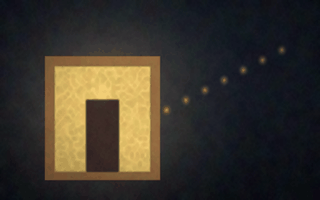
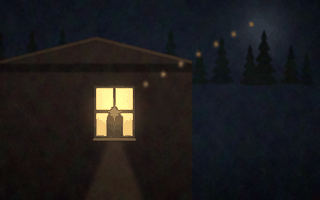
Art draft 2b: the song window belongs to a house now
Grounding sweep across the remaining scenes after the waterline
catches.

SALMONBERRY SONG was the broken one - a lit window floating in
void. Rebuilt from the yard at night: the house's dark gable mass
against a spruce line, the ONE window framed and mullioned, the
grandmother's head-and-shoulders silhouette low in the pane, warm
light spilling over the sill onto the grass in a soft pool, and
the melody rising past the eave into the dark. It is now the
strongest scene in the set - light belonging to a building is the
whole difference.

THE WATERSHED's tide gate stopped floating: mud berms first, post
feet entering the water with lap lines, the cap beam and the
half-lifted leaf, a widened channel mouth meeting the structure,
and the impounded reach beyond it - a tide gate holds water on
both sides, and without the far water it read as beached
furniture. Still the set's weakest scene; first in line for an
AI-painted source.

The store interior verified shipping-quality on review (shelf
goods, lamp pools, mullioned window, counter) - no changes.

Claude-Session: https://claude.ai/code/session_01R3bSM67DFWoUu4UxFBU7g1

diff --git a/godot/tools/art/scene_painter.py b/godot/tools/art/scene_painter.py
@@ -323,21 +323,43 @@ def salmonberry_title(H, W):
 
 
 def salmonberry_song(H, W):
-    arr = sky(H, W, [(0.0, C["night"]), (1.0, (16, 20, 28))])
-    # warm room glow
-    glow(arr, W * 0.32, H * 0.55, W * 0.5, C["lamp"], 0.45)
-    # the window frame + warm pane
-    fill_poly(arr, [(W * 0.14, H * 0.28), (W * 0.5, H * 0.28), (W * 0.5, H * 0.9), (W * 0.14, H * 0.9)], C["wood"], blur=1)
-    fill_poly(arr, [(W * 0.17, H * 0.33), (W * 0.47, H * 0.33), (W * 0.47, H * 0.86), (W * 0.17, H * 0.86)], C["window"], blur=2)
-    tex(arr, _mask(H, W, [(W * 0.17, H * 0.33), (W * 0.47, H * 0.33), (W * 0.47, H * 0.86), (W * 0.17, H * 0.86)]), 24, seed=5, scale=8)
-    # the grandmother, a soft silhouette at the window
-    fill_poly(arr, [(W * 0.27, H * 0.5), (W * 0.37, H * 0.5), (W * 0.37, H * 0.86), (W * 0.27, H * 0.86)], (60, 44, 40), blur=2)
-    glow(arr, W * 0.32, H * 0.47, W * 0.05, (40, 30, 28), 0.9)
-    # the melody, notes rising out into the dark
-    rng = np.random.default_rng(2)
+    """Night, from the yard: the dark gable of the house against
+    the spruce line, ONE lit window with the grandmother's head-
+    and-shoulders silhouette in it, warm light spilling onto the
+    sill and the grass below, the melody rising into the dark.
+    (Draft 1 rendered the window floating in void with no house —
+    the light must belong to a building.)"""
+    arr = sky(H, W, [(0.0, C["night"]), (0.7, (20, 26, 36)), (1.0, (14, 18, 26))])
+    glow(arr, W * 0.82, H * 0.14, W * 0.18, (180, 190, 210), 0.25)   # moon haze
+    # spruce line behind the roof
+    sprucerow(arr, 0, W, int(H * 0.42), (16, 22, 20), seed=13, blur=1.5)
+    # the house: gable mass filling the left, roofline against night
+    grad_poly(arr, [(0, H), (0, H * 0.30), (W * 0.30, H * 0.18), (W * 0.60, H * 0.30), (W * 0.60, H)],
+              (44, 34, 30), (26, 20, 18), blur=0.8)
+    fill_poly(arr, [(0, H * 0.305), (W * 0.30, H * 0.185), (W * 0.60, H * 0.305), (W * 0.60, H * 0.32), (W * 0.30, H * 0.20), (0, H * 0.32)], (60, 48, 40), blur=0.8)
+    # eave shadow under the roofline
+    fill_poly(arr, [(0, H * 0.32), (W * 0.60, H * 0.32), (W * 0.60, H * 0.36), (0, H * 0.36)], (14, 12, 12), blur=2, opacity=0.6)
+    # THE WINDOW · framed, mullioned, warm
+    wx0, wy0, ww2, wh2 = W * 0.30, H * 0.44, W * 0.115, H * 0.24
+    fill_poly(arr, [(wx0 - 6, wy0 - 6), (wx0 + ww2 + 6, wy0 - 6), (wx0 + ww2 + 6, wy0 + wh2 + 6), (wx0 - 6, wy0 + wh2 + 6)], (66, 52, 40), blur=0.5)
+    grad_poly(arr, [(wx0, wy0), (wx0 + ww2, wy0), (wx0 + ww2, wy0 + wh2), (wx0, wy0 + wh2)], (255, 224, 150), (216, 168, 96), blur=0.6)
+    # the grandmother: head + shoulders, low in the pane
+    fill_poly(arr, [(wx0 + ww2 * 0.30, wy0 + wh2), (wx0 + ww2 * 0.30, wy0 + wh2 * 0.62),
+                    (wx0 + ww2 * 0.38, wy0 + wh2 * 0.50), (wx0 + ww2 * 0.44, wy0 + wh2 * 0.40),
+                    (wx0 + ww2 * 0.56, wy0 + wh2 * 0.40), (wx0 + ww2 * 0.62, wy0 + wh2 * 0.50),
+                    (wx0 + ww2 * 0.72, wy0 + wh2 * 0.62), (wx0 + ww2 * 0.72, wy0 + wh2)],
+              (56, 40, 34), blur=1.0)
+    # mullion cross OVER pane + figure
+    fill_poly(arr, [(wx0 + ww2 * 0.48, wy0), (wx0 + ww2 * 0.52, wy0), (wx0 + ww2 * 0.52, wy0 + wh2), (wx0 + ww2 * 0.48, wy0 + wh2)], (66, 52, 40), blur=0.3)
+    fill_poly(arr, [(wx0, wy0 + wh2 * 0.46), (wx0 + ww2, wy0 + wh2 * 0.46), (wx0 + ww2, wy0 + wh2 * 0.52), (wx0, wy0 + wh2 * 0.52)], (66, 52, 40), blur=0.3)
+    # light spill: sill ledge, then a soft pool on the grass
+    fill_poly(arr, [(wx0 - 8, wy0 + wh2 + 6), (wx0 + ww2 + 8, wy0 + wh2 + 6), (wx0 + ww2 + 10, wy0 + wh2 + 12), (wx0 - 10, wy0 + wh2 + 12)], (120, 96, 64), blur=0.6)
+    glow(arr, wx0 + ww2 / 2, wy0 + wh2 / 2, W * 0.13, C["lamp"], 0.5)
+    fill_poly(arr, [(wx0 - ww2 * 0.3, H), (wx0 + ww2 * 0.35, wy0 + wh2 + 12), (wx0 + ww2 * 0.65, wy0 + wh2 + 12), (wx0 + ww2 * 1.3, H)], (96, 74, 46), blur=6, opacity=0.4)
+    # the melody, rising past the eave into the night
     for i in range(7):
-        nx = W * (0.52 + i * 0.06); ny = H * (0.55 - i * 0.05)
-        glow(arr, nx, ny, W * 0.02, C["gold"], 0.7)
+        nx = wx0 + ww2 + W * (0.04 + i * 0.055); ny = wy0 - H * (0.02 + i * 0.05)
+        glow(arr, nx, ny, W * 0.016, C["gold"], 0.75)
     vignette(arr, 0.5)
     return arr
 
@@ -619,16 +641,27 @@ def estuary4_watershed(H, W):
           (W * 0.54, H * 0.95), (W * 0.5, H)]
     for i in range(len(ch) - 1):
         (x0, y0), (x1, y1) = ch[i], ch[i + 1]
-        wd0 = 8 + i * 3; wd1 = 8 + (i + 1) * 3
+        wd0 = 13 + i * 3; wd1 = 13 + (i + 1) * 3
         fill_poly(arr, [(x0 - wd0 - 6, y0), (x1 - wd1 - 6, y1), (x1 + wd1 + 6, y1), (x0 + wd0 + 6, y0)], (146, 128, 96), blur=2, opacity=0.8)
         fill_poly(arr, [(x0 - wd0, y0), (x1 - wd1, y1), (x1 + wd1, y1), (x0 + wd0, y0)], (140, 168, 176), blur=1.5)
     # the tide gate at the channel head: timber frame + wing walls
-    gx, gy = W * 0.5, hz + 6
-    fill_poly(arr, [(gx - 26, gy - 22), (gx + 26, gy - 22), (gx + 26, gy - 16), (gx - 26, gy - 16)], (108, 84, 56), blur=0.6)
-    for px in (gx - 22, gx, gx + 22):
-        fill_poly(arr, [(px - 3, gy - 20), (px + 3, gy - 20), (px + 3, gy + 10), (px - 3, gy + 10)], (96, 74, 50), blur=0.5)
-    fill_poly(arr, [(gx - 46, gy - 4), (gx - 22, gy - 10), (gx - 22, gy + 6), (gx - 46, gy + 8)], (120, 96, 64), blur=0.8)
-    fill_poly(arr, [(gx + 22, gy - 10), (gx + 46, gy - 4), (gx + 46, gy + 8), (gx + 22, gy + 6)], (120, 96, 64), blur=0.8)
+    # The impounded reach BEYOND the gate — a tide gate holds
+    # water on both sides, at two levels; without the far water
+    # the structure reads beached on grass.
+    fill_poly(arr, [(W * 0.5 - 34, hz - 16), (W * 0.5 + 34, hz - 16), (W * 0.5 + 26, hz + 6), (W * 0.5 - 26, hz + 6)], (150, 176, 182), blur=1.5)
+    # The gate stands IN the channel mouth: mud berms first, then
+    # posts whose feet enter the water, then the cap beam. (The
+    # first draft's beam+posts floated over the grass.)
+    gx, gy = W * 0.5, hz + 10
+    fill_poly(arr, [(gx - 52, gy + 12), (gx - 20, gy + 2), (gx - 20, gy + 16), (gx - 48, gy + 22)], (132, 112, 84), blur=1.5)
+    fill_poly(arr, [(gx + 20, gy + 2), (gx + 52, gy + 12), (gx + 48, gy + 22), (gx + 20, gy + 16)], (132, 112, 84), blur=1.5)
+    for px in (gx - 16, gx, gx + 16):
+        fill_poly(arr, [(px - 3, gy - 26), (px + 3, gy - 26), (px + 3, gy + 14), (px - 3, gy + 14)], (86, 66, 44), blur=0.5)
+        # waterline lap at each post foot
+        fill_poly(arr, [(px - 5, gy + 12), (px + 5, gy + 12), (px + 6, gy + 15), (px - 6, gy + 15)], (170, 190, 194), blur=0.8, opacity=0.7)
+    fill_poly(arr, [(gx - 22, gy - 28), (gx + 22, gy - 28), (gx + 22, gy - 21), (gx - 22, gy - 21)], (108, 84, 56), blur=0.5)
+    # the raised gate leaf, half-lifted between the mid posts
+    fill_poly(arr, [(gx - 13, gy - 20), (gx + 13, gy - 20), (gx + 13, gy - 2), (gx - 13, gy - 2)], (74, 58, 40), blur=0.5)
     # THE HERON · one, standing in the channel's second bend
     bx, by = W * 0.44, H * 0.55
     fill_poly(arr, [(bx - 2, by), (bx + 2, by), (bx + 1, by + 22), (bx - 1, by + 22)], (90, 98, 104), blur=0.4)
